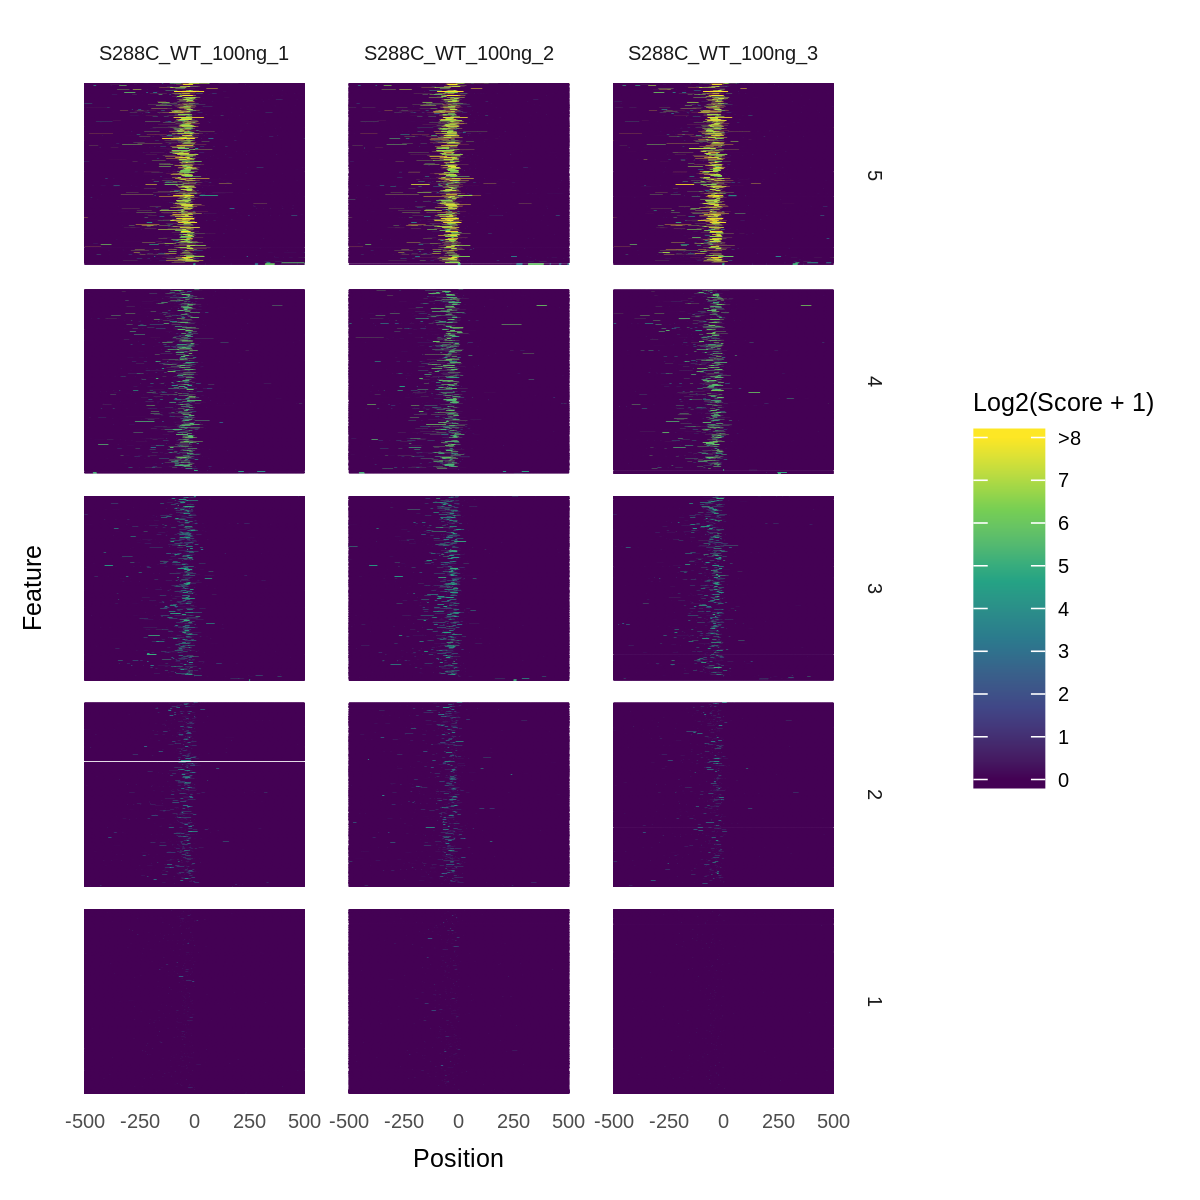
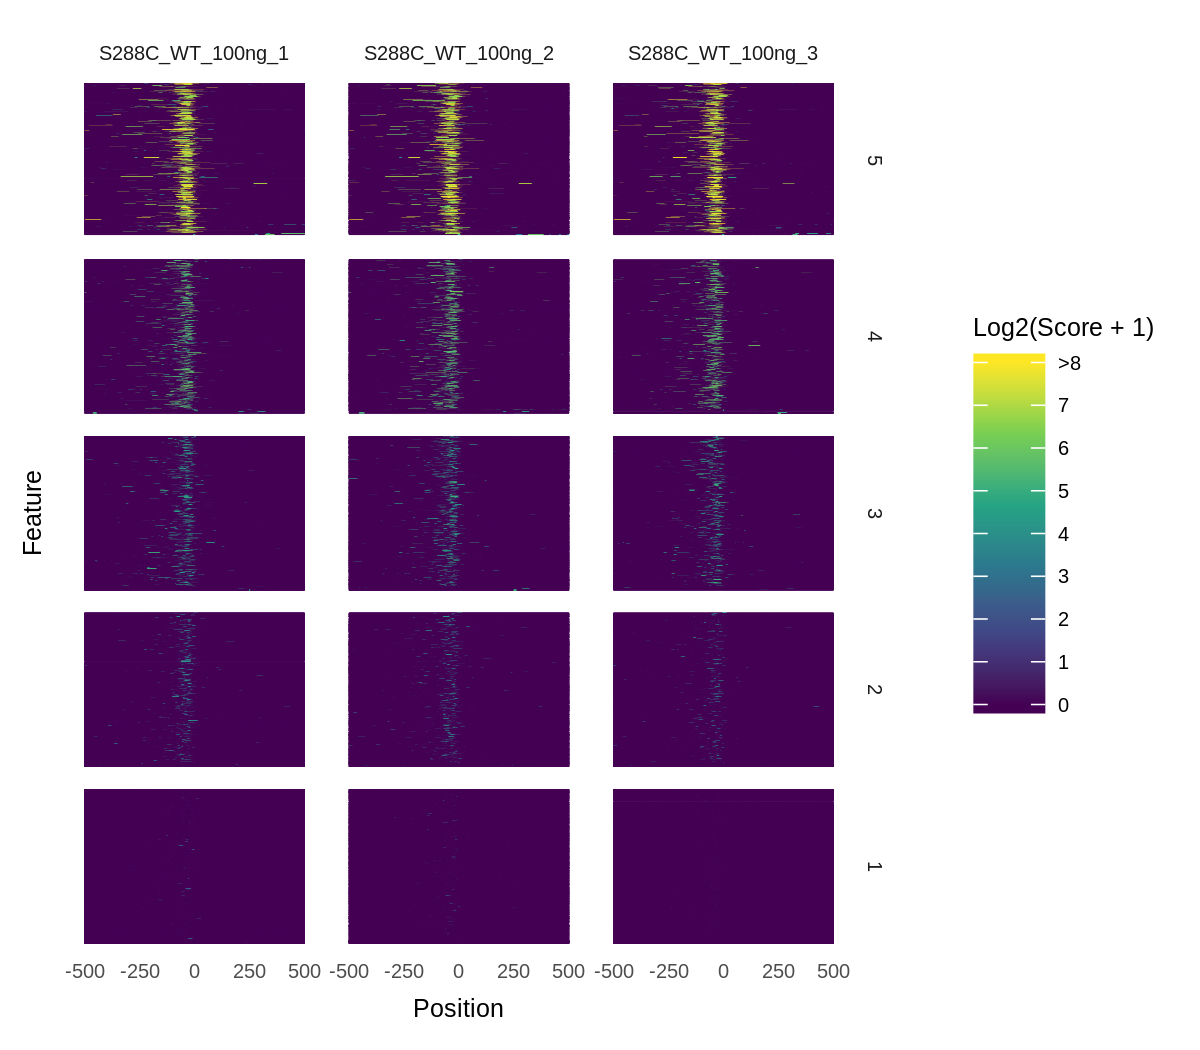
fixing the quantile heatmaps

diff --git a/README.md b/README.md
@@ -168,7 +168,7 @@ count_matrix <- tss_heatmap_matrix(
 p <- plot_heatmap(count_matrix) +
         ggplot2::theme(text = element_text(size = 6))
 
-ggsave("tss_heatmap_quantiles.png", plot = p, device = "png", type = "cairo", height = 4, width = 4)
+ggsave("tss_heatmap_quantiles.png", plot = p, device = "png", type = "cairo", height = 3.5, width = 4)
 ```
 
 ![tss_heatmap_quantiles](./inst/images/tss_heatmap_quantiles.png)
@@ -397,7 +397,7 @@ counts <- tsr_heatmap_matrix(exp, feature_type = "transcriptId", upstream = 500,
 p <- plot_heatmap(counts, max_value = 8) +
         ggplot2::theme(text = element_text(size = 6))
 
-ggsave("tsr_heatmap_quantiles.png", plot = p, device = "png", type = "cairo", height = 4, width = 4)
+ggsave("tsr_heatmap_quantiles.png", plot = p, device = "png", type = "cairo", height = 3.5, width = 4)
 ```
 
 ![tsr_heatmap_quantiles](./inst/images/tsr_heatmap_quantiles.png)
